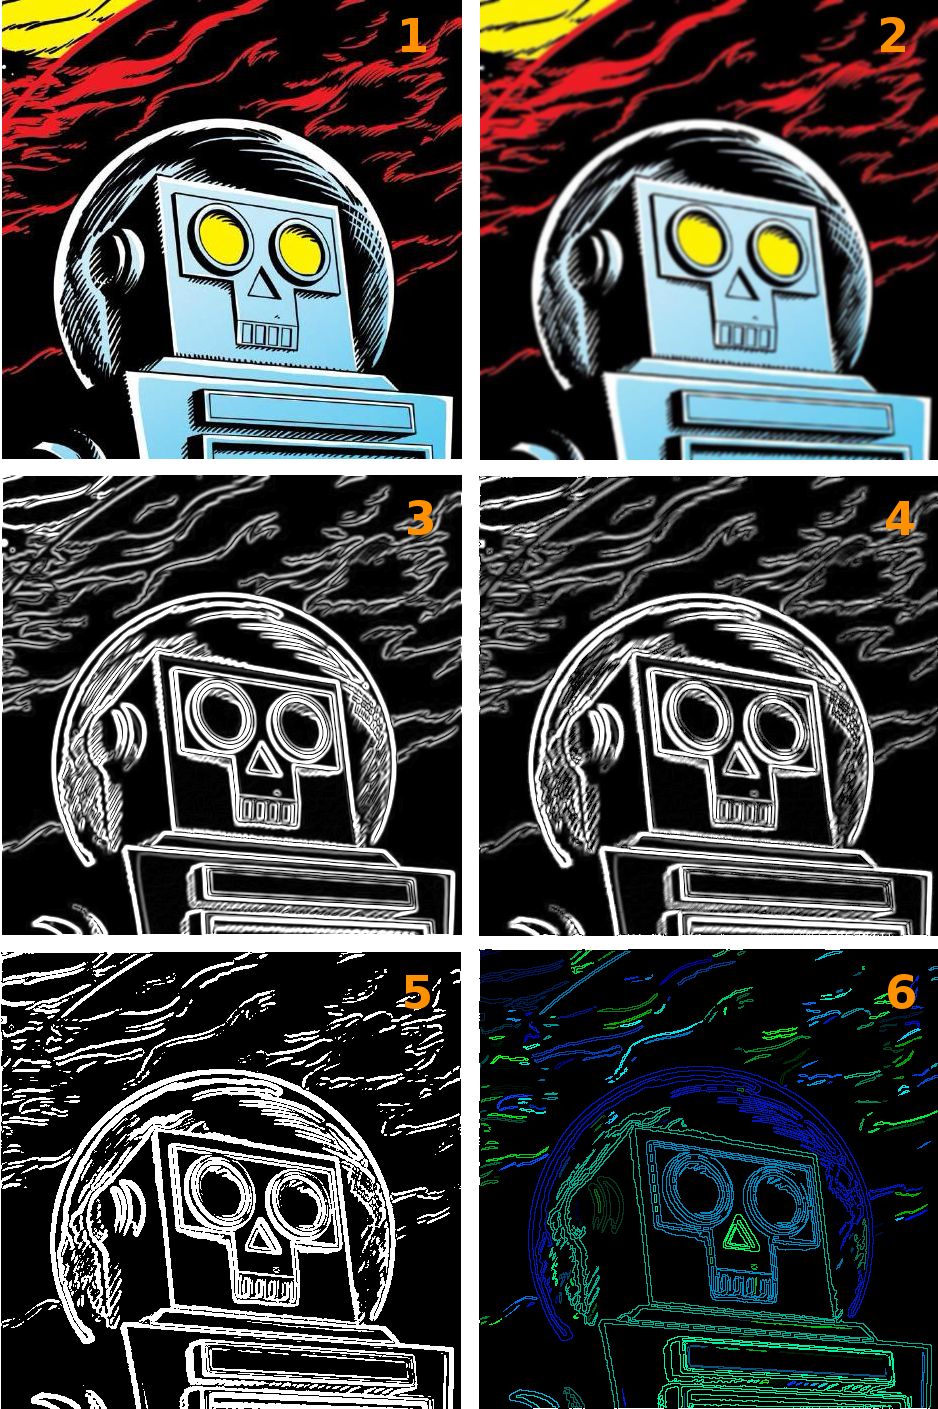
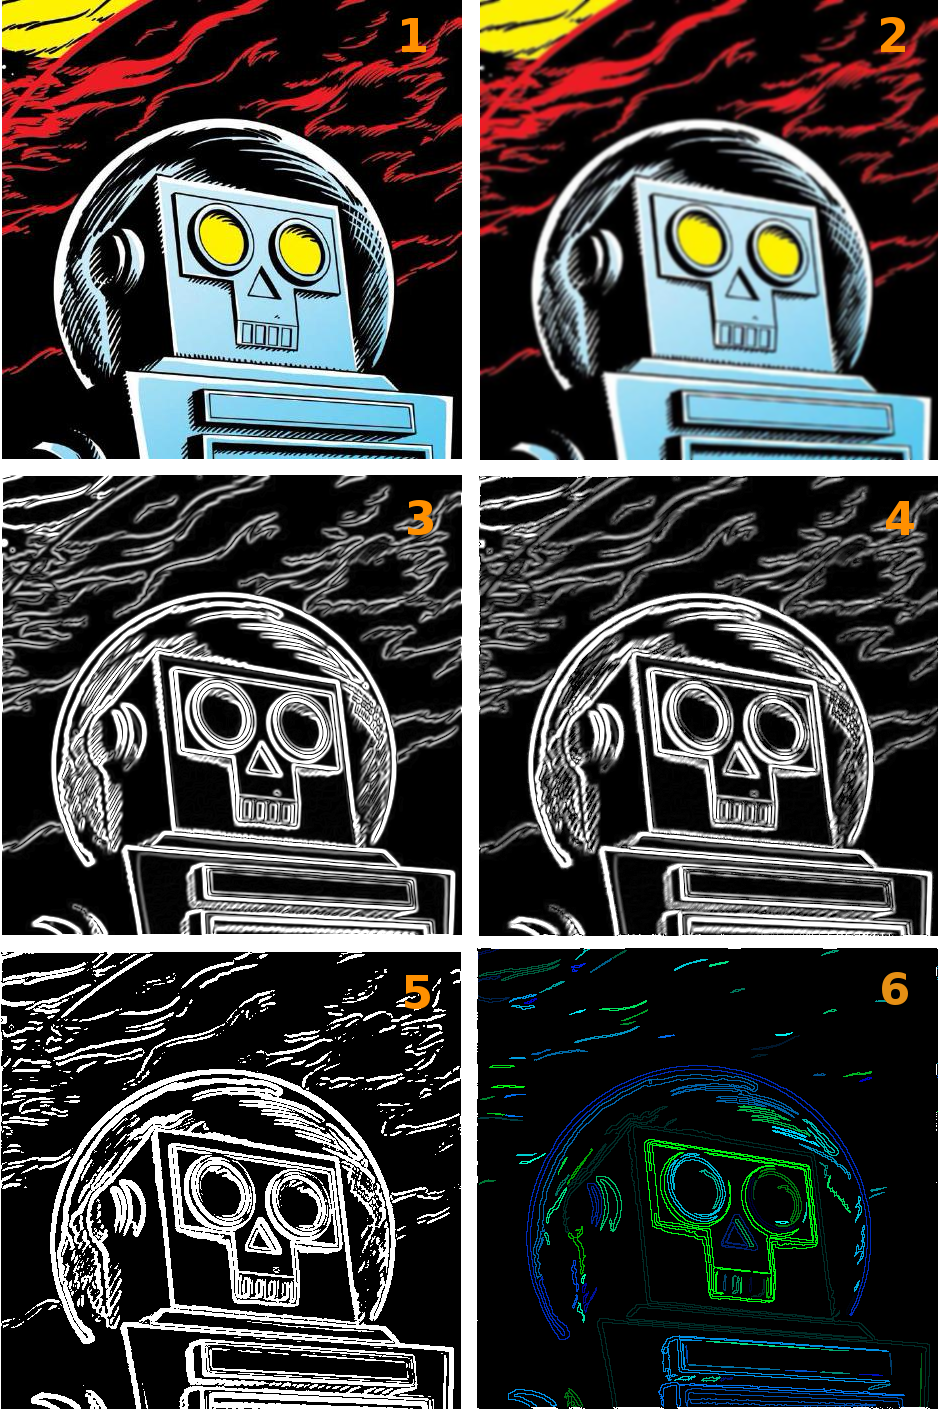
Changing readme and output png

diff --git a/README.md b/README.md
@@ -18,9 +18,9 @@ Decodes PNG files, runs edge detection algorithms over the decoded image, then o
   
   4] Edge angle comparison
   
-  5] 85% edge magnitude thresholding
+  5] 82% edge magnitude thresholding
   
-  6] Edge identification and 10px size thresholding
+  6] Edge identification and 25px edge length thresholding
 
 #Sources Used:
 
